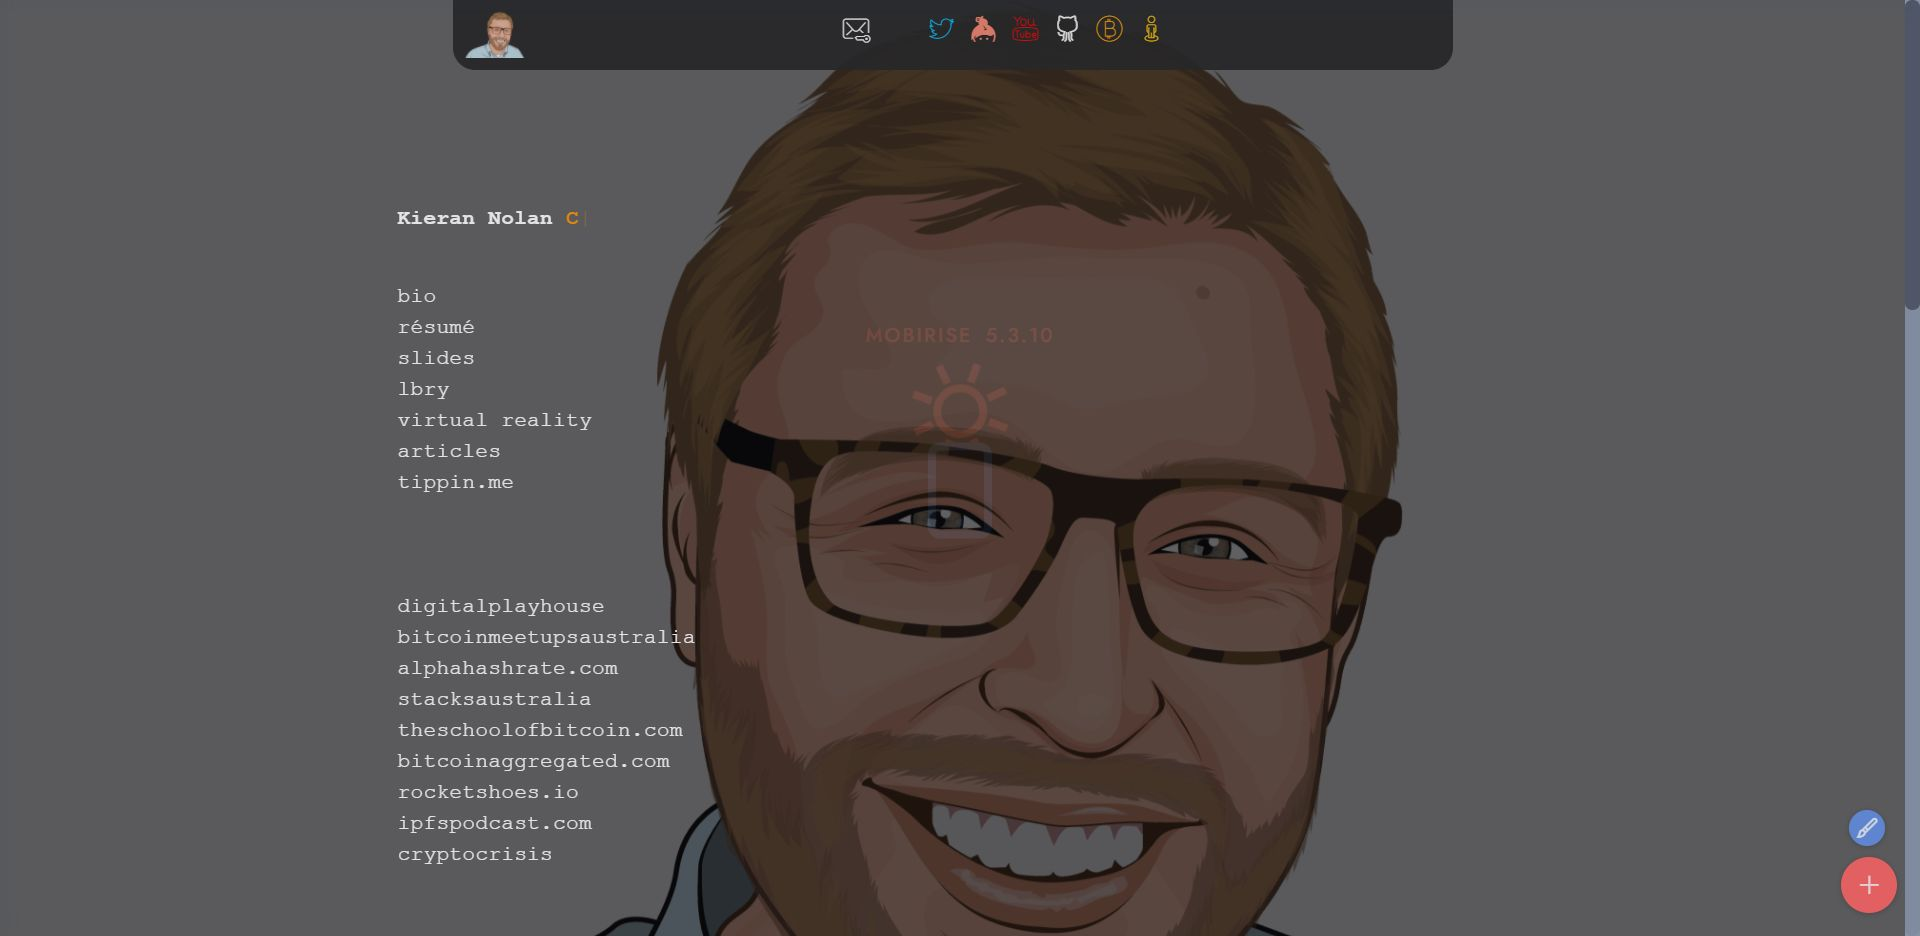
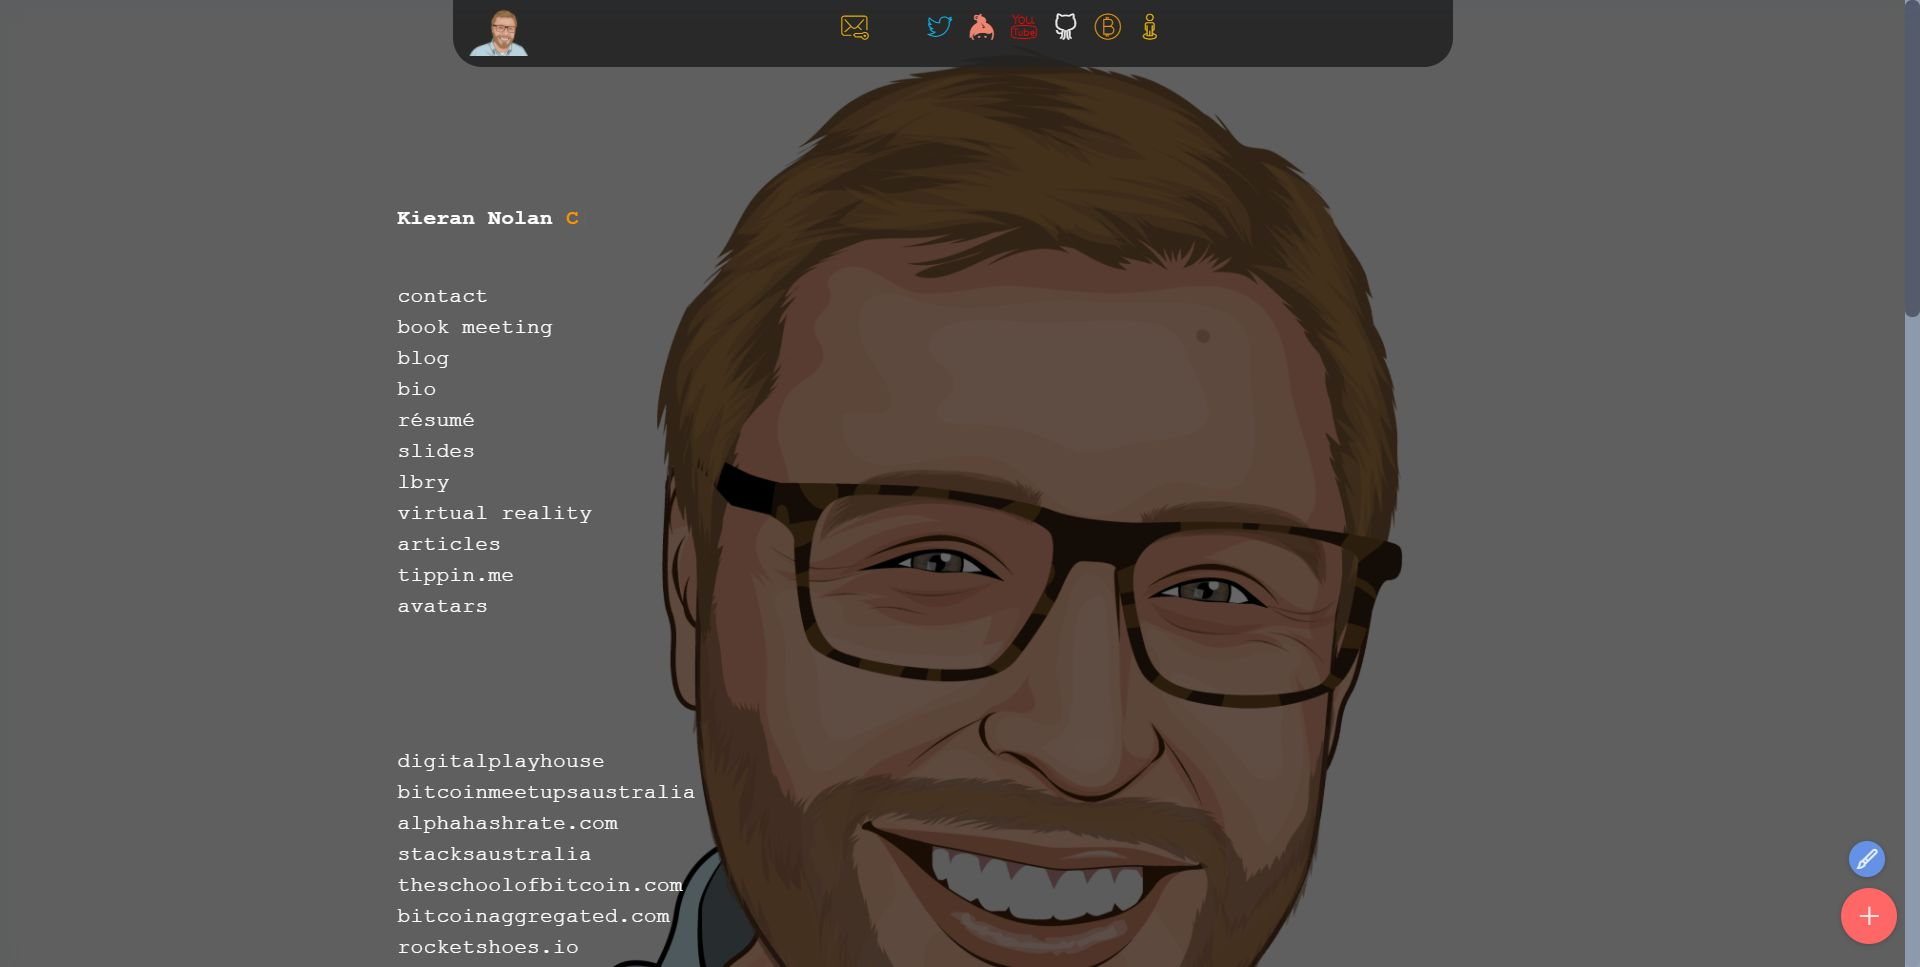
go
go

diff --git a/index.html b/index.html
@@ -105,7 +105,7 @@
                       </span>
                     </span>
                 </div>
-                <p class="mbr-section-text mbr-fonts-style display-5"><a href="https://docs.google.com/document/d/e/2PACX-1vThl-ewFW4OaiN8GeH2qSgxjdPlX7vAmTLaCFP4GKvrwfkR7OjQgEOStjc0O49MUUrxKyTIcyDunUUS/pub" class="text-primary" target="_blank"><br></a><a href="https://vida.page/kierandnolan" class="text-primary" target="_blank">contact</a><br><a href="https://lncal.com/kdnolan" class="text-primary" target="_blank">book meeting</a><br><a href="https://stacker.news/KieranDNolan/posts" class="text-primary" target="_blank">blog</a><a href="https://lncal.com/kdnolan" class="text-primary" target="_blank"><br></a><a href="https://docs.google.com/document/d/e/2PACX-1vThl-ewFW4OaiN8GeH2qSgxjdPlX7vAmTLaCFP4GKvrwfkR7OjQgEOStjc0O49MUUrxKyTIcyDunUUS/pub" class="text-primary" target="_blank">bio</a><br><a href="https://docs.google.com/document/d/e/2PACX-1vSJ3lUSlqyzEbDo2WYMuaCoPWlIEa_Dltg2NgMmwRnxJEwSH9Kfty-wHGQbAZDOrDtfyUymXv8UziGx/pub" class="text-primary" target="_blank">résumé</a><br><a href="https://docs.google.com/presentation/d/17VgbEdmkydBphCaPF-fNZWcem_wUsqc7-zxOej7hY0I/edit?usp=sharing" class="text-primary" target="_blank">slides</a><br><a href="https://open.lbry.com/@kdnolan:f" class="text-primary" target="_blank">lbry</a><br><strong><a href="VR.html" class="text-primary">virtual reality</a></strong><br><strong><a href="https://github.com/kdnolan/kdnolan.github.io/tree/master/articles" class="text-primary" target="_blank">articles</a></strong><br><strong><a href="https://tippin.me/@KieranDNolan" class="text-primary" target="_blank">tippin.me</a></strong><br><a href="https://github.com/kdnolan/kdnolan.github.io/tree/master/avatars" class="text-primary" target="_blank">avatars</a><a href="http://bafybeigejnwczpexdwlcv5ldelmmnzeetzqfltofsgaxxnuvoa5s5axo7q.ipfs.localhost:8080/" class="text-primary" target="_blank"><br></a><a href="https://tippin.me/@KieranDNolan" class="text-primary" target="_blank" style="font-weight: bold;"><br></a><br><br><a href="https://theschoolofbitcoin.com/" class="text-primary" target="_blank"><br></a><a href="https://www.digitalplayhouse.com.au/digital-playhouse-foundation" class="text-primary" target="_blank">digitalplayhouse</a><br><a href="https://btcma.org/" class="text-primary" target="_blank">bitcoinmeetupsaustralia</a><a href="https://www.digitalplayhouse.com.au/digital-playhouse-foundation" class="text-primary" target="_blank"><br></a><a href="https://alphahashrate.com/" class="text-primary" target="_blank">alphahashrate.com</a><br><a href="https://stacksaustralia.github.io/" class="text-primary" target="_blank">stacksaustralia<br></a><a href="https://theschoolofbitcoin.com/" class="text-primary" target="_blank">theschoolofbitcoin.com</a><br><a href="https://bitcoinaggregated.com/" class="text-primary" target="_blank">bitcoinaggregated.com
+                <p class="mbr-section-text mbr-fonts-style display-5"><a href="https://docs.google.com/document/d/e/2PACX-1vThl-ewFW4OaiN8GeH2qSgxjdPlX7vAmTLaCFP4GKvrwfkR7OjQgEOStjc0O49MUUrxKyTIcyDunUUS/pub" class="text-primary" target="_blank"><br></a><a href="https://vida.page/kierandnolan" class="text-primary" target="_blank">contact</a><br><a href="https://lncal.com/kdnolan" class="text-primary" target="_blank">book meeting</a><br><a href="https://docs.google.com/document/d/e/2PACX-1vThl-ewFW4OaiN8GeH2qSgxjdPlX7vAmTLaCFP4GKvrwfkR7OjQgEOStjc0O49MUUrxKyTIcyDunUUS/pub" class="text-primary" target="_blank">bio</a><br><a href="https://docs.google.com/document/d/e/2PACX-1vSJ3lUSlqyzEbDo2WYMuaCoPWlIEa_Dltg2NgMmwRnxJEwSH9Kfty-wHGQbAZDOrDtfyUymXv8UziGx/pub" class="text-primary" target="_blank">résumé</a><br><a href="https://docs.google.com/presentation/d/17VgbEdmkydBphCaPF-fNZWcem_wUsqc7-zxOej7hY0I/edit?usp=sharing" class="text-primary" target="_blank">slides</a><br><strong><a href="VR.html" class="text-primary">virtual reality</a></strong><br><strong><a href="https://github.com/kdnolan/kdnolan.github.io/tree/master/articles" class="text-primary" target="_blank">articles</a></strong><br><strong><a href="https://tippin.me/@KieranDNolan" class="text-primary" target="_blank">tippin.me</a></strong><br><a href="https://github.com/kdnolan/kdnolan.github.io/tree/master/avatars" class="text-primary" target="_blank">avatars</a><a href="http://bafybeigejnwczpexdwlcv5ldelmmnzeetzqfltofsgaxxnuvoa5s5axo7q.ipfs.localhost:8080/" class="text-primary" target="_blank"><br></a><a href="https://tippin.me/@KieranDNolan" class="text-primary" target="_blank" style="font-weight: bold;"><br></a><br><br>projects:<a href="https://theschoolofbitcoin.com/" class="text-primary" target="_blank"><br></a><a href="https://www.digitalplayhouse.com.au/digital-playhouse-foundation" class="text-primary" target="_blank">digitalplayhouse</a><br><a href="https://btcma.org/" class="text-primary" target="_blank">bitcoinmeetupsaustralia</a><a href="https://www.digitalplayhouse.com.au/digital-playhouse-foundation" class="text-primary" target="_blank"><br></a><a href="https://alphahashrate.com/" class="text-primary" target="_blank">alphahashrate.com</a><br><a href="https://stacksaustralia.github.io/" class="text-primary" target="_blank">stacksaustralia<br></a><a href="https://theschoolofbitcoin.com/" class="text-primary" target="_blank">theschoolofbitcoin.com</a><br><a href="https://bitcoinaggregated.com/" class="text-primary" target="_blank">bitcoinaggregated.com
 </a><br><a href="http://rocketshoes.io" class="text-primary" target="_blank">rocketshoes.io</a><br><a href="http://ipfspodcast.com" class="text-primary" target="_blank">ipfspodcast.com</a><br><a href="https://store.steampowered.com/app/1022320/Crypto_Crisis_Education_Edition/" class="text-primary" target="_blank">cryptocrisis<br></a><br><br><br><strong><a href="http://rocketshoes.io" class="text-primary" target="_blank"><br></a></strong><br><strong><a href="http://rocketshoes.io" class="text-primary" target="_blank"><br></a></strong><a href="http://kdnolan.hns.to" class="text-primary" target="_blank" style=""><br></a><br></p>
                 
             </div>
